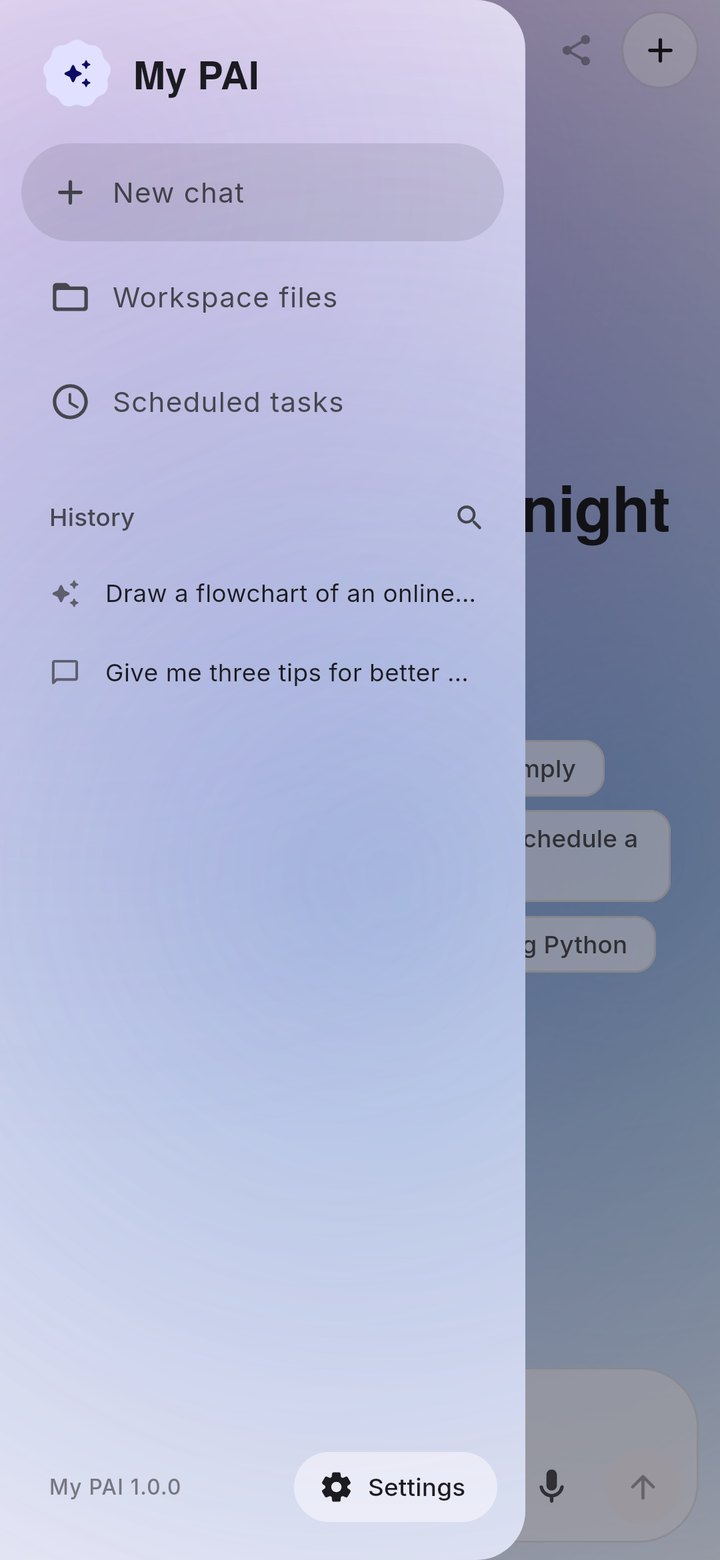
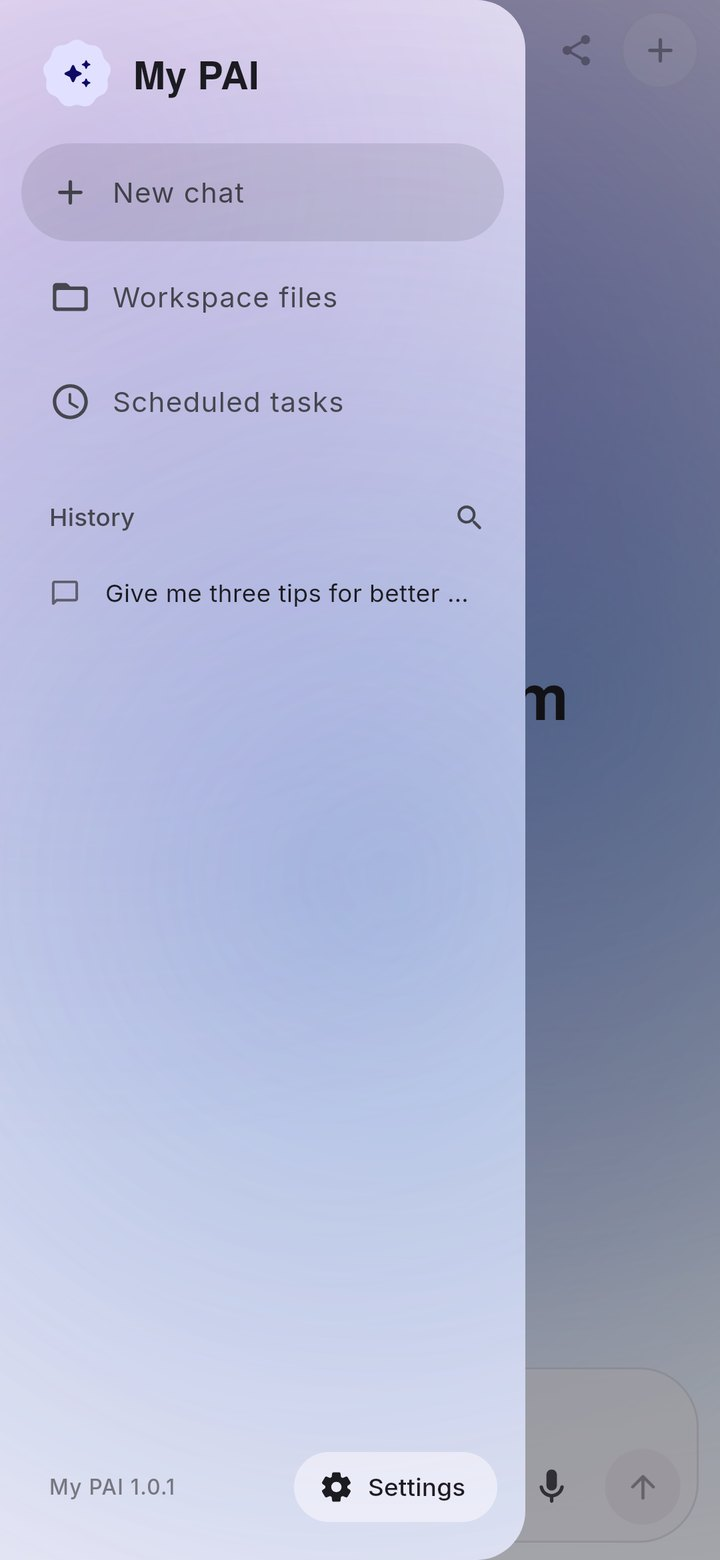
1.0.1: Ollama, a cleaner first screen, arrows on long rows of choices
- Ollama can be added as a service: no key, just the address it listens on.
  A model that takes no tools is sent the conversation without them.
- Plain http is allowed on Android so Ollama on a home network can be reached;
  no client follows a redirect from https to http
- The suggested prompts on an empty chat are gone, in Chat and Work
- The + button is dimmed on an empty chat and starts a new one once there are
  messages
- On a computer, a row with more choices than fit has an arrow at each end

diff --git a/app/src/main/java/app/pocketagent/ui/WelcomeScreen.kt b/app/src/main/java/app/pocketagent/ui/WelcomeScreen.kt
@@ -1,5 +1,10 @@
 package app.pocketagent.ui
 
+import androidx.compose.foundation.gestures.animateScrollBy
+import androidx.compose.material.icons.automirrored.rounded.KeyboardArrowLeft
+import androidx.compose.material.icons.automirrored.rounded.KeyboardArrowRight
+import androidx.compose.foundation.layout.PaddingValues
+import androidx.compose.ui.draw.alpha
 import androidx.compose.animation.AnimatedContent
 import androidx.compose.animation.AnimatedVisibility
 import androidx.compose.animation.animateColorAsState
@@ -85,20 +90,43 @@ import kotlinx.coroutines.launch
 val ROLES = listOf("Student", "Developer", "Designer", "Writer", "Founder", "Researcher", "Teacher", "Other")
 val STYLES = listOf("short" to "Short", "balanced" to "Balanced", "detailed" to "Detailed")
 
-/** A row of rounded choices; the chosen one fills with colour. */
+/**
+ * A row of rounded choices; the chosen one fills with colour. When there are more than fit, the row scrolls; on a
+ * computer, where there is no finger to drag it, an arrow at each end moves it along.
+ */
 @Composable
 fun Choices(options: List<Pair<String, String>>, selected: String, onSelect: (String) -> Unit, modifier: Modifier = Modifier) {
     val cs = MaterialTheme.colorScheme
-    Row(modifier.horizontalScroll(rememberScrollState()), horizontalArrangement = Arrangement.spacedBy(8.dp)) {
-        options.forEach { (value, label) ->
-            val on = value == selected
-            val bg by animateColorAsState(if (on) cs.primary else cs.surfaceContainerHigh, label = "choice")
-            val fg by animateColorAsState(if (on) cs.onPrimary else cs.onSurface, label = "choiceText")
-            val size by animateFloatAsState(if (on) 1.04f else 1f, spring(dampingRatio = 0.5f, stiffness = 500f), label = "choiceScale")
-            Surface(onClick = { onSelect(value) }, shape = CircleShape, color = bg, contentColor = fg, modifier = Modifier.scale(size)) {
-                Text(label, Modifier.padding(horizontal = 16.dp, vertical = 10.dp), style = MaterialTheme.typography.labelLarge, maxLines = 1)
+    val scroll = rememberScrollState()
+    val scope = rememberCoroutineScope()
+    val arrows = LocalGraph.current.platform.isDesktop && scroll.maxValue > 0
+    Row(modifier, verticalAlignment = Alignment.CenterVertically) {
+        @Composable
+        fun arrow(back: Boolean) {
+            val can = if (back) scroll.canScrollBackward else scroll.canScrollForward
+            Surface(
+                onClick = { scope.launch { scroll.animateScrollBy(if (back) -260f else 260f, spring(dampingRatio = 0.9f, stiffness = 380f)) } },
+                enabled = can, shape = CircleShape, color = cs.surfaceContainerHigh, contentColor = cs.onSurface,
+                modifier = Modifier.padding(if (back) PaddingValues(end = 8.dp) else PaddingValues(start = 8.dp)).size(34.dp).alpha(if (can) 1f else 0.35f),
+            ) {
+                Box(contentAlignment = Alignment.Center) {
+                    Icon(if (back) Icons.AutoMirrored.Rounded.KeyboardArrowLeft else Icons.AutoMirrored.Rounded.KeyboardArrowRight, if (back) "Show earlier choices" else "Show more choices", Modifier.size(20.dp))
+                }
             }
         }
+        if (arrows) arrow(back = true)
+        Row(Modifier.weight(1f, fill = false).horizontalScroll(scroll), horizontalArrangement = Arrangement.spacedBy(8.dp)) {
+            options.forEach { (value, label) ->
+                val on = value == selected
+                val bg by animateColorAsState(if (on) cs.primary else cs.surfaceContainerHigh, label = "choice")
+                val fg by animateColorAsState(if (on) cs.onPrimary else cs.onSurface, label = "choiceText")
+                val size by animateFloatAsState(if (on) 1.04f else 1f, spring(dampingRatio = 0.5f, stiffness = 500f), label = "choiceScale")
+                Surface(onClick = { onSelect(value) }, shape = CircleShape, color = bg, contentColor = fg, modifier = Modifier.scale(size)) {
+                    Text(label, Modifier.padding(horizontal = 16.dp, vertical = 10.dp), style = MaterialTheme.typography.labelLarge, maxLines = 1)
+                }
+            }
+        }
+        if (arrows) arrow(back = false)
     }
 }
 
@@ -109,12 +137,29 @@ fun ProviderKeyFields(provider: Provider, onProvider: (Provider) -> Unit, key: S
     var show by remember { mutableStateOf(false) }
     var customName by remember { mutableStateOf("") }
     var customUrl by remember { mutableStateOf("") }
-    val isCustom = provider.custom
+    var ollamaUrl by remember { mutableStateOf(if (provider.local) provider.baseUrl else Providers.OLLAMA_URL) }
+    val isLocal = provider.local
+    val isCustom = provider.custom && !isLocal
     Choices(
-        Providers.PRESETS.filter { it.id !in exclude }.map { it.id to it.name } + ("custom" to "Custom"),
-        if (isCustom) "custom" else provider.id,
-        { id -> onProvider(if (id == "custom") Providers.custom(customName, customUrl) else Providers.PRESETS.first { it.id == id }) },
+        Providers.PRESETS.filter { it.id !in exclude }.map { it.id to it.name } + listOfNotNull((Providers.OLLAMA to "Ollama").takeIf { Providers.OLLAMA !in exclude }) + ("custom" to "Custom"),
+        if (isLocal) Providers.OLLAMA else if (isCustom) "custom" else provider.id,
+        { id ->
+            onProvider(when (id) {
+                "custom" -> Providers.custom(customName, customUrl)
+                Providers.OLLAMA -> Providers.ollama(ollamaUrl)
+                else -> Providers.PRESETS.first { it.id == id }
+            })
+        },
     )
+    // Ollama runs on the person's own computer: all it needs is where to find it.
+    AnimatedVisibility(isLocal) {
+        OutlinedTextField(
+            ollamaUrl, { ollamaUrl = it.trim(); onProvider(Providers.ollama(ollamaUrl)) }, Modifier.fillMaxWidth().padding(top = 12.dp),
+            label = { Text("Ollama address") }, placeholder = { Text(Providers.OLLAMA_URL) }, singleLine = true, enabled = enabled, shape = MaterialTheme.shapes.large,
+            supportingText = { Text(if (LocalGraph.current.platform.isDesktop) "Where Ollama listens. On this computer that is the address already filled in." else "Ollama runs on a computer. Enter that computer's address on your Wi-Fi, for example http://192.168.1.20:11434/v1, and start Ollama there with OLLAMA_HOST=0.0.0.0 so the phone can reach it.") },
+            keyboardOptions = KeyboardOptions(keyboardType = KeyboardType.Uri, autoCorrectEnabled = false),
+        )
+    }
     AnimatedVisibility(isCustom) {
         Column {
             OutlinedTextField(
@@ -132,8 +177,8 @@ fun ProviderKeyFields(provider: Provider, onProvider: (Provider) -> Unit, key: S
     OutlinedTextField(
         value = key, onValueChange = { onKey(it.trim()) },
         modifier = Modifier.fillMaxWidth().padding(top = 12.dp),
-        label = { Text(if (isCustom) "API key" else "${provider.name} API key") },
-        placeholder = { if (provider.keyHint.isNotEmpty()) Text(provider.keyHint) },
+        label = { Text(if (isLocal) "API key (leave empty)" else if (isCustom) "API key" else "${provider.name} API key") },
+        placeholder = { if (isLocal) Text("Not needed for Ollama on your own computer") else if (provider.keyHint.isNotEmpty()) Text(provider.keyHint) },
         singleLine = true, enabled = enabled, isError = error != null,
         supportingText = { if (error != null) Text(error) },
         trailingIcon = { IconButton({ show = !show }) { Icon(if (show) Icons.Rounded.VisibilityOff else Icons.Rounded.Visibility, if (show) "Hide key" else "Show key") } },
@@ -142,7 +187,7 @@ fun ProviderKeyFields(provider: Provider, onProvider: (Provider) -> Unit, key: S
         keyboardActions = KeyboardActions(onDone = { onDone() }),
         shape = MaterialTheme.shapes.large,
     )
-    if (provider.keyUrl.isNotEmpty()) TextButton({ runCatching { uri.openUri(provider.keyUrl) } }) { Text("Get a ${provider.name} key") }
+    if (provider.keyUrl.isNotEmpty()) TextButton({ runCatching { uri.openUri(provider.keyUrl) } }) { Text(if (isLocal) "Get Ollama" else "Get a ${provider.name} key") }
 }
 
 @Composable
@@ -182,7 +227,7 @@ fun WelcomeScreen(onDone: () -> Unit) {
     var beat by remember { mutableIntStateOf(0) }
 
     fun start() {
-        if (busy || ok || key.isBlank()) return
+        if (busy || ok || (key.isBlank() && !provider.local)) return
         if (provider.custom && !provider.baseUrl.startsWith("http")) { error = "Enter the service's address first."; return }
         busy = true; error = null
         scope.launch {
@@ -241,7 +286,7 @@ fun WelcomeScreen(onDone: () -> Unit) {
             }
 
             Section(2, "") {
-                Button(::start, Modifier.fillMaxWidth().height(56.dp), enabled = key.isNotBlank() && !busy && !ok, shape = MaterialTheme.shapes.large) {
+                Button(::start, Modifier.fillMaxWidth().height(56.dp), enabled = (key.isNotBlank() || provider.local) && !busy && !ok, shape = MaterialTheme.shapes.large) {
                     AnimatedContent(if (ok) 2 else if (busy) 1 else 0, label = "btn") { st ->
                         when (st) {
                             1 -> LoadingIndicator(Modifier.size(32.dp), color = cs.onPrimary)

diff --git a/app/src/main/java/app/pocketagent/ui/ChatScreen.kt b/app/src/main/java/app/pocketagent/ui/ChatScreen.kt
@@ -412,8 +412,12 @@ fun ChatScreen(chatId: Long, initialText: String, onMenu: (() -> Unit)?, onNew: 
                 }
                 // Hand the whole conversation to someone else with a short code. There is nothing to hand over until something has been said.
                 IconButton({ sharing = true }, enabled = messages.isNotEmpty()) { Icon(Icons.Rounded.Share, "Share this chat with a code", Modifier.size(21.dp)) }
-                // New chat sits alone in the top corner.
-                Surface(onClick = onNew, shape = CircleShape, color = cs.surface.copy(alpha = 0.35f), border = androidx.compose.foundation.BorderStroke(1.dp, cs.onSurface.copy(alpha = 0.12f)), modifier = Modifier.padding(start = 2.dp, end = 8.dp).size(44.dp)) {
+                // New chat sits alone in the top corner. It wakes up once something has been said here: an empty chat is already a new one.
+                val canStartNew = messages.isNotEmpty() || run != null
+                Surface(
+                    onClick = onNew, enabled = canStartNew, shape = CircleShape, color = cs.surface.copy(alpha = 0.35f),
+                    border = androidx.compose.foundation.BorderStroke(1.dp, cs.onSurface.copy(alpha = 0.12f)), modifier = Modifier.padding(start = 2.dp, end = 8.dp).size(44.dp).alpha(if (canStartNew) 1f else 0.38f),
+                ) {
                     Box(contentAlignment = Alignment.Center) { Icon(Icons.Rounded.Add, "New chat") }
                 }
             }
@@ -424,7 +428,7 @@ fun ChatScreen(chatId: Long, initialText: String, onMenu: (() -> Unit)?, onNew: 
             // Messages. On a wide window the column is kept to a comfortable reading width.
             Box(Modifier.weight(1f).fillMaxWidth(), contentAlignment = Alignment.TopCenter) {
                 Box(Modifier.widthIn(max = 860.dp).fillMaxSize()) {
-                    if (rows.isEmpty() && chat != null) EmptyChat(chatId, chat!!.agent) { input = it; send() }
+                    if (rows.isEmpty() && chat != null) EmptyChat(chatId, chat!!.agent)
                     else LazyColumn(
                         Modifier.fillMaxSize().nestedScroll(readingBack),
                         state = listState, reverseLayout = true, contentPadding = PaddingValues(top = 8.dp, bottom = 10.dp),
@@ -563,7 +567,7 @@ fun ChatScreen(chatId: Long, initialText: String, onMenu: (() -> Unit)?, onNew: 
 
 /** An empty chat: a greeting that changes with the hour, the weather and the person's name, over slowly moving colour. */
 @Composable
-private fun EmptyChat(chatId: Long, work: Boolean, onPick: (String) -> Unit) {
+private fun EmptyChat(chatId: Long, work: Boolean) {
     val g = LocalGraph.current
     val cs = MaterialTheme.colorScheme
     val settings by g.settings.collectAsState()
@@ -579,13 +583,6 @@ private fun EmptyChat(chatId: Long, work: Boolean, onPick: (String) -> Unit) {
             }
             AnimatedContent(line, transitionSpec = { fadeIn(tween(600, delayMillis = 120)) togetherWith fadeOut(tween(200)) }, label = "greetingLine") { l ->
                 Text(l, Modifier.padding(top = 12.dp).widthIn(max = 380.dp), style = MaterialTheme.typography.bodyLarge, color = cs.onSurfaceVariant, textAlign = TextAlign.Center)
-            }
-            val ideas = if (work) listOf("Research today's top technology news and save a summary as notes.md", "Plan a 3-day trip to Jaipur and write the itinerary to a file", "Draft a README for a to-do list app in the workspace")
-            else listOf("Explain how a rainbow forms, simply", "Help me write a polite message to reschedule a meeting", "Give me a 7-day plan to start learning Python")
-            Column(Modifier.padding(top = 22.dp), horizontalAlignment = Alignment.CenterHorizontally) {
-                ideas.forEach { idea ->
-                    SuggestionChip({ onPick(idea) }, { Text(idea, Modifier.padding(vertical = 6.dp), maxLines = 2, overflow = TextOverflow.Ellipsis) }, Modifier.widthIn(max = 420.dp), colors = androidx.compose.material3.SuggestionChipDefaults.suggestionChipColors(containerColor = cs.surface.copy(alpha = 0.6f)))
-                }
             }
         }
     }

diff --git a/app/src/main/java/app/pocketagent/Graph.kt b/app/src/main/java/app/pocketagent/Graph.kt
@@ -162,18 +162,23 @@ class Graph(val platform: Platform, val vault: Vault, val settingsStore: Setting
      * @return a message to show when the key is refused, or null when it is saved
      */
     suspend fun connect(provider: Provider, rawKey: String): String? {
-        val key = rawKey.trim()
-        if (key.length < 8 || key.any { it.isWhitespace() }) return "That does not look like an API key."
+        // A service on the person's own computer needs no key; a word stands in for one so the rest of the app has something to send.
+        val key = rawKey.trim().ifEmpty { if (provider.local) Providers.NO_KEY else "" }
+        if (!provider.local && (key.length < 8 || key.any { it.isWhitespace() })) return "That does not look like an API key."
+        if (provider.local && !provider.baseUrl.startsWith("http")) return "Enter the address ${provider.name} listens on, starting with http://"
         val models = try {
             fetchModels(provider, key)
         } catch (e: ApiException) {
+            if (provider.local) return "Could not reach ${provider.name} at ${provider.baseUrl}. Check that it is running (ollama serve) and that the address is right."
             // A wrong key is refused outright. Any other answer (some services have no model list) is not the key's fault.
             if (e.kind == ApiException.Kind.AUTH || e.kind == ApiException.Kind.PERMISSION || e.kind == ApiException.Kind.NETWORK || provider.kind == "anthropic") return e.friendly
             emptyList()
         } catch (e: Exception) {
             return "Could not check the key. Try again."
         }
-        if (provider.custom) settingsStore.update { s -> if (s.customProviders.any { it.id == provider.id }) s else s.copy(customProviders = s.customProviders + provider) }
+        if (provider.local && models.isEmpty()) return "${provider.name} answered, but it has no models yet. Download one first, for example: ollama pull llama3.2"
+        // Kept with its address. Connecting again under the same name replaces the address it had.
+        if (provider.custom) settingsStore.update { s -> s.copy(customProviders = s.customProviders.filter { it.id != provider.id } + provider) }
         vault.write(Providers.vaultKey(provider.id), key)
         saveModels(provider, models)
         settingsStore.update { s ->

diff --git a/app/src/main/java/app/pocketagent/ai/RunManager.kt b/app/src/main/java/app/pocketagent/ai/RunManager.kt
@@ -95,6 +95,8 @@ class RunManager(
     private val assemblers = ConcurrentHashMap<Long, LiveReply>()
     /** Optional request extras the service has rejected; left off for the rest of this app session. */
     private val disabled: MutableSet<Feature> = Collections.synchronizedSet(LinkedHashSet())
+    /** Models ("service/model") that answered that they take no tools. */
+    private val noTools: MutableSet<String> = Collections.synchronizedSet(LinkedHashSet())
 
     fun isRunning(chatId: Long) = jobs.containsKey(chatId)
 
@@ -290,7 +292,9 @@ class RunManager(
         var attempt = 0
         var stripped = false
         while (true) {
-            val off = disabled.toSet()
+            // A model that turned tools down once is not offered them again.
+            val toolsKey = cfg.provider.id + "/" + cfg.model
+            val off = if (toolsKey in noTools) disabled.toSet() + Feature.TOOLS else disabled.toSet()
             val key = host.key(cfg.provider.id) ?: throw ApiException(ApiException.Kind.NO_KEY, "No API key is set for ${cfg.provider.name}. Add one in Settings.")
             val anthropic = cfg.provider.kind == "anthropic"
             // Events can arrive faster than a screen can draw. The newest state is published at most every
@@ -325,6 +329,12 @@ class RunManager(
                 if (msg.container.isNotEmpty()) containers[chatId] = msg.container
                 return msg
             } catch (e: ApiException) {
+                // "This model does not support tools": the same request goes again without them, as a plain conversation.
+                if (!anthropic && toolsKey !in noTools && Feature.TOOLS.hints.any { e.message.orEmpty().lowercase().contains(it) }) {
+                    noTools += toolsKey; assemblers.remove(chatId)
+                    if (cfg.agent) note(chatId, "info", "This model cannot use tools, so it will answer here without files, memory or connected accounts.")
+                    continue
+                }
                 if (e.kind == ApiException.Kind.BAD_REQUEST) {
                     val rejected = RequestBuilder.rejectedFeature(e.message.orEmpty(), sentFeatures(cfg, off))
                     if (rejected != null) { disabled += rejected; assemblers.remove(chatId); continue }

diff --git a/docs/privacy.html b/docs/privacy.html
@@ -35,7 +35,7 @@
 <p>Your chats, attachments, workspace files, memory notes and settings are stored on this device, in the app's private storage. Your API keys and sync code are encrypted: on Android with a key held in the Android Keystore, on a computer with a key in a file only your user account can read. Nothing is included in cloud backups.</p>
 <h2>What leaves your device</h2>
 <ul>
-<li><strong>Your messages and attachments</strong> go straight from the app to the AI service you chose, over HTTPS, so it can reply. That service handles them under its own privacy policy.</li>
+<li><strong>Your messages and attachments</strong> go straight from the app to the AI service you chose, over HTTPS, so it can reply. That service handles them under its own privacy policy. If you choose Ollama, they go only to the Ollama you point the app at, on your own computer or network, at the address you enter; that connection is plain http unless you set it up otherwise.</li>
 <li><strong>Web search and the code sandbox</strong> run on the AI service's side. In Work with a Claude model, the sandbox is where documents are converted and charts and office files are made: the text or the workspace file you ask it to work on is sent there, and the files it makes are fetched back and saved on your device. A file sent there is kept in your own account at the AI service for up to 30 days, then removed.</li>
 <li><strong>Feedback</strong> you send from Settings contains what you wrote, the email address you give for a reply (if any) and the app version. It passes through the relay, which keeps none of it, to an email delivery service and on to the developer's mailbox. Nothing from your chats, files or keys goes with it.</li>
 <li><strong>Pictures and videos</strong>, only when you ask for one: the description of what to create goes to Google (Gemini), OpenAI or Pollinations with your own key for that service, and the result is saved on your device. Without such a key the app does not make pictures or videos.</li>

diff --git a/app/src/main/java/app/pocketagent/ui/Docs.kt b/app/src/main/java/app/pocketagent/ui/Docs.kt
@@ -76,7 +76,7 @@ My PAI has no accounts, no ads and no analytics. There is no My PAI server that 
 Your chats, attachments, workspace files, memory notes and settings are stored on this device, in the app's private storage. Your API keys and sync code are encrypted: on Android with a key held in the Android Keystore, on a computer with a key in a file only your user account can read. Nothing is included in cloud backups.
 
 ## What leaves your device
-- **Your messages and attachments** go straight from the app to the AI service you chose, over HTTPS, so it can reply. That service handles them under its own privacy policy.
+- **Your messages and attachments** go straight from the app to the AI service you chose, over HTTPS, so it can reply. That service handles them under its own privacy policy. If you choose Ollama, they go only to the Ollama you point the app at, on your own computer or network, at the address you enter; that connection is plain http unless you set it up otherwise.
 - **Web search and the code sandbox** run on the AI service's side. In Work with a Claude model, the sandbox is where documents are converted and charts and office files are made: the text or the workspace file you ask it to work on is sent there, and the files it makes are fetched back and saved on your device. A file sent there is kept in your own account at the AI service for up to 30 days, then removed.
 - **Feedback** you send from Settings contains what you wrote, the email address you give for a reply (if any) and the app version. It passes through the relay, which keeps none of it, to an email delivery service and on to the developer's mailbox. Nothing from your chats, files or keys goes with it.
 - **Pictures and videos**, only when you ask for one: the description of what to create goes to Google (Gemini), OpenAI or Pollinations with your own key for that service, and the result is saved on your device. Without such a key the app does not make pictures or videos.

diff --git a/app/src/main/java/app/pocketagent/ai/Providers.kt b/app/src/main/java/app/pocketagent/ai/Providers.kt
@@ -18,6 +18,8 @@ data class Provider(
     val keyHint: String = "",
     val blurb: String = "",
     val custom: Boolean = false,
+    /** Runs on the person's own computer or network (Ollama): no key is needed, and its address can be plain http. */
+    val local: Boolean = false,
 )
 
 object Providers {
@@ -38,6 +40,17 @@ object Providers {
         Provider("nvidia", "NVIDIA", "https://integrate.api.nvidia.com/v1", "openai", "https://build.nvidia.com", "nvapi-…", "Open models"),
         Provider("pollinations", "Pollinations", "https://gen.pollinations.ai/v1", "openai", "https://enter.pollinations.ai", "", "Open models, with pictures and video"),
         Provider("huggingface", "Hugging Face", "https://router.huggingface.co/v1", "openai", "https://huggingface.co/settings/tokens", "hf_…", "Open models"),
+    )
+
+    const val OLLAMA = "ollama"
+    const val OLLAMA_URL = "http://localhost:11434/v1"
+    /** What is kept in place of a key for a service that needs none. Ollama ignores it. */
+    const val NO_KEY = "ollama"
+
+    /** Ollama, at the address the person gives: their own computer, or another one on their network. */
+    fun ollama(baseUrl: String = OLLAMA_URL) = Provider(
+        id = OLLAMA, name = "Ollama", baseUrl = baseUrl.trim().trimEnd('/').ifEmpty { OLLAMA_URL }, kind = "openai",
+        keyUrl = "https://ollama.com/download", blurb = "Models that run on your own computer", custom = true, local = true,
     )
 
     fun vaultKey(providerId: String) = "key.$providerId"

diff --git a/app/src/main/java/app/pocketagent/ui/SettingsScreen.kt b/app/src/main/java/app/pocketagent/ui/SettingsScreen.kt
@@ -209,7 +209,7 @@ private fun AddServiceDialog(initial: Provider?, exclude: Set<String>, onDismiss
     var busy by remember { mutableStateOf(false) }
     var error by remember { mutableStateOf<String?>(null) }
     fun save() {
-        if (busy || key.isBlank()) return
+        if (busy || (key.isBlank() && !provider.local)) return
         if (provider.custom && !provider.baseUrl.startsWith("http")) { error = "Enter the service's address first."; return }
         busy = true
         scope.launch {
@@ -232,7 +232,7 @@ private fun AddServiceDialog(initial: Provider?, exclude: Set<String>, onDismiss
                 } else ProviderKeyFields(provider, { provider = it; error = null }, key, { key = it; error = null }, error, !busy, ::save, exclude)
             }
         },
-        confirmButton = { TextButton(::save, enabled = key.isNotBlank() && !busy) { if (busy) LoadingIndicator(Modifier.size(24.dp)) else Text("Save") } },
+        confirmButton = { TextButton(::save, enabled = (key.isNotBlank() || (provider.local && initial == null)) && !busy) { if (busy) LoadingIndicator(Modifier.size(24.dp)) else Text("Save") } },
         dismissButton = { TextButton(onDismiss, enabled = !busy) { Text("Cancel") } },
     )
 }

diff --git a/app/src/test/java/app/pocketagent/CoreTest.kt b/app/src/test/java/app/pocketagent/CoreTest.kt
@@ -238,6 +238,12 @@ class CoreTest {
             buildJsonObject { put("role", "user"); put("content", parseArray("""[{"type":"tool_result","tool_use_id":"toolu_1","content":"hello"}]""")) },
         )
         val body = OpenAiCompat.build(oaCfg(agent = true), history, tools(), emptySet()) { byteArrayOf(1, 2, 3) }
+        // A model that takes no tools is sent the same conversation without them.
+        assertTrue(body["tools"] != null)
+        assertNull(OpenAiCompat.build(oaCfg(agent = true), history, tools(), setOf(Feature.TOOLS)) { byteArrayOf(1, 2, 3) }["tools"])
+        // Ollama is a service like the others, at an address of the person's own, with no key to ask for.
+        assertTrue(Providers.ollama().local && Providers.ollama().baseUrl == "http://localhost:11434/v1")
+        assertEquals("http://192.168.1.20:11434/v1", Providers.ollama(" http://192.168.1.20:11434/v1/ ").baseUrl)
         val m = body.arr("messages")!!.map { it as JsonObject }
         assertEquals(listOf("system", "user", "assistant", "tool"), m.map { it.str("role") })
         val parts = m[1].arr("content")!!.map { it as JsonObject }

diff --git a/app/src/main/java/app/pocketagent/ai/OpenAiCompat.kt b/app/src/main/java/app/pocketagent/ai/OpenAiCompat.kt
@@ -65,7 +65,7 @@ object OpenAiCompat {
         put("model", cfg.model)
         put("stream", true)
         putJsonObject("stream_options") { put("include_usage", true) }
-        val toolList = tools(cfg, clientTools)
+        val toolList = if (Feature.TOOLS in disabled) JsonArray(emptyList()) else tools(cfg, clientTools)
         if (toolList.isNotEmpty()) put("tools", toolList)
         if (Feature.EFFORT !in disabled) {
             val effort = when (cfg.effort) { "xhigh", "max" -> "high"; else -> cfg.effort }
@@ -218,6 +218,8 @@ class OpenAiAssembler : LiveReply {
 
 class OpenAiApi {
     private val http = OkHttpClient.Builder()
+        // Never carried from an https address to a plain http one, key and all.
+        .followSslRedirects(false)
         .connectTimeout(30, TimeUnit.SECONDS)
         .writeTimeout(120, TimeUnit.SECONDS)
         .readTimeout(10, TimeUnit.MINUTES)

diff --git a/app/src/main/java/app/pocketagent/ai/Integrations.kt b/app/src/main/java/app/pocketagent/ai/Integrations.kt
@@ -21,7 +21,7 @@ import java.util.concurrent.TimeUnit
  * outside the phone (sending mail, writing to GitHub) is shown to the user for a yes or no first.
  */
 class Integrations(private val secret: (String) -> String?, private val githubUrl: String = "https://api.github.com", private val mailHosts: MailHosts = MailHosts()) {
-    private val http by lazy { OkHttpClient.Builder().connectTimeout(20, TimeUnit.SECONDS).readTimeout(40, TimeUnit.SECONDS).build() }
+    private val http by lazy { OkHttpClient.Builder().followSslRedirects(false).connectTimeout(20, TimeUnit.SECONDS).readTimeout(40, TimeUnit.SECONDS).build() }
 
     fun githubOn() = !secret(GITHUB).isNullOrBlank()
     fun gmailOn() = !secret(GMAIL_USER).isNullOrBlank() && !secret(GMAIL_PASS).isNullOrBlank()

diff --git a/app/src/main/java/app/pocketagent/update/Updates.kt b/app/src/main/java/app/pocketagent/update/Updates.kt
@@ -41,7 +41,7 @@ interface Updates {
         const val PAGE = "https://github.com/$REPO/releases/latest"
         /** How often the app looks for a newer version by itself. One small request, so it can afford to be often. */
         const val AUTO_CHECK_MS = 30 * 60_000L
-        val http: OkHttpClient by lazy { OkHttpClient.Builder().connectTimeout(20, TimeUnit.SECONDS).readTimeout(60, TimeUnit.SECONDS).build() }
+        val http: OkHttpClient by lazy { OkHttpClient.Builder().followSslRedirects(false).connectTimeout(20, TimeUnit.SECONDS).readTimeout(60, TimeUnit.SECONDS).build() }
 
         /** True when version [candidate] is newer than [current] ("1.10.0" beats "1.9.3"). */
         fun isNewer(candidate: String, current: String): Boolean {
